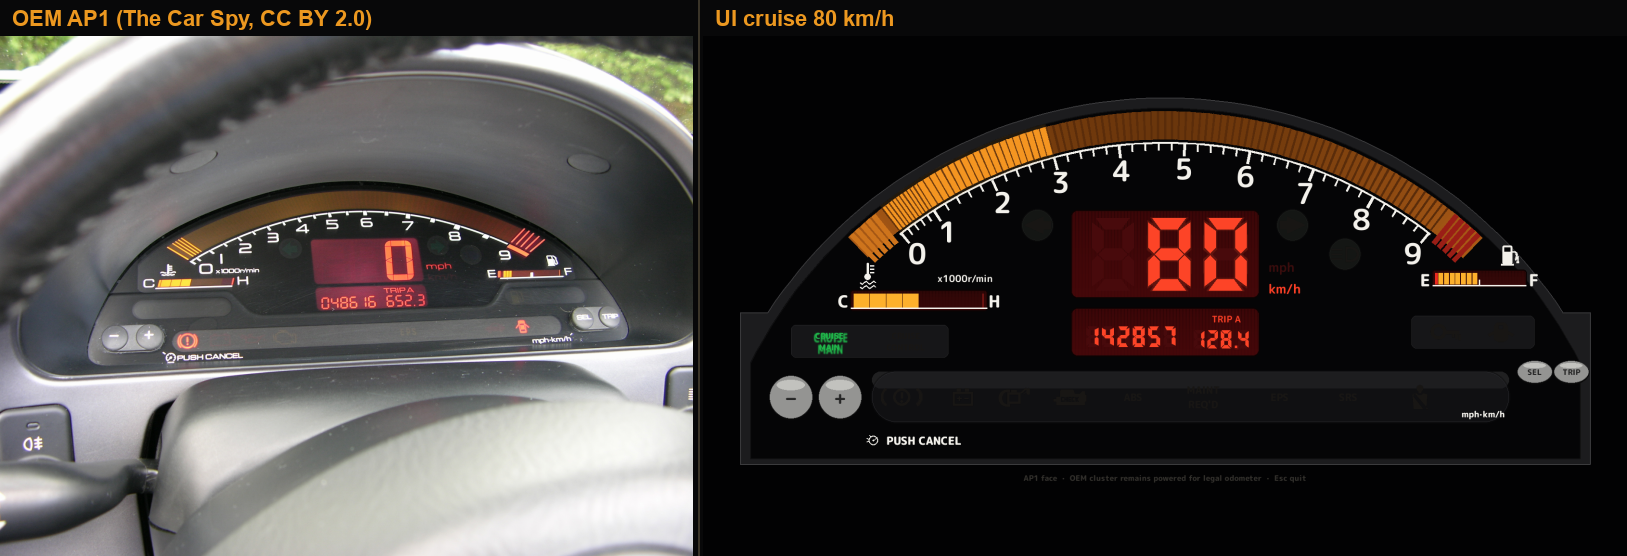
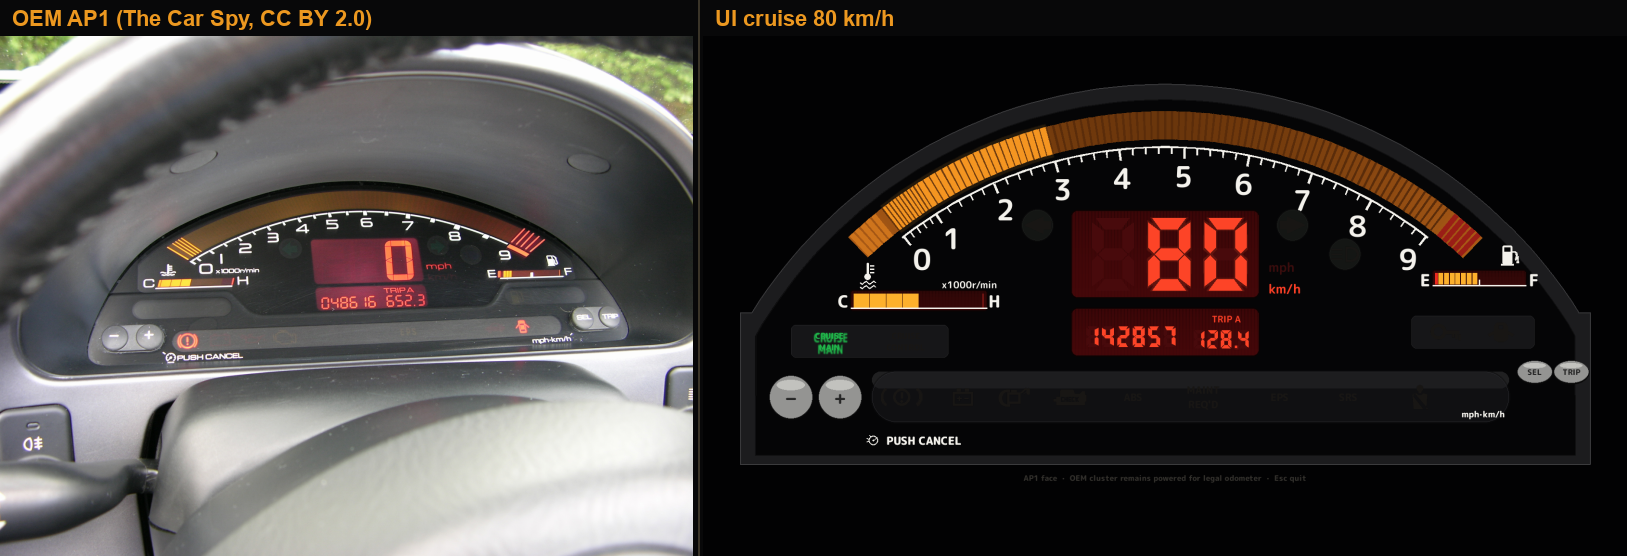
fix(cluster): unstack overlapping hood, band and tick curves
The cowl lip, amber band, hatch tails and tick baseline sat on almost the
same radius, so they painted as one stroke. Give each ring its own gap
from the OEM stack and lock that in tests.

diff --git a/apps/harness/lib/geometry.test.ts b/apps/harness/lib/geometry.test.ts
@@ -73,17 +73,29 @@ describe("face geometry (shared faceSpec.json lock)", () => {
     near(pctY(tachNumXY(0).y), 0.43, 0.03);
   });
 
+  it("keeps hood, band, hatch, ticks and numerals on separate radii", () => {
+    const t = FACE.spec.tach;
+    assert.ok(FACE.spec.crown_r - t.r_out >= 0.012);
+    assert.ok(t.r_in - t.r_line >= t.line_gap);
+    assert.ok(t.hatch_inner_over <= t.line_gap * 0.25);
+    const tickTip = t.r_line - t.tick_major[1];
+    const numeralOuter = t.r_num + t.num_size / 2;
+    assert.ok(tickTip - numeralOuter > 0.002);
+  });
+
   it("draws the hood crown concentric with the band, clearing its apex, springing at ~5 % W", () => {
     const pts = visorLipPoly().split(" ").map((p) => p.split(",").map(Number));
     assert.ok(pts.length > 20);
     const mid = pts[Math.floor(pts.length / 2)];
     const apex = arcPx(FACE, FACE.spec.tach.r_out, -90);
     assert.ok(mid[1] < apex.y);
-    assert.ok(apex.y - mid[1] < FACE.module.w * 0.012);
+    const well = apex.y - mid[1];
+    assert.ok(well > FACE.module.w * 0.010);
+    assert.ok(well < FACE.module.w * 0.020);
     const c = arcPx(FACE, 0, -90);
     const radii = pts.map(([x, y]) => Math.hypot(x - c.x, y - c.y) / FACE.module.w);
     near(Math.max(...radii) - Math.min(...radii), 0, 0.002);
-    near(Math.min(...radii), FACE.spec.tach.r_out + 0.004, 0.002);
+    near(Math.min(...radii), FACE.spec.tach.r_out + 0.014, 0.002);
     const half = crownSpringX(FACE.spec, FACE.spec.crown_r, FACE.spec.spring_y);
     near(0.5 - half, 0.05, 0.02);
     assert.match(hoodPath(), /^M .* Z$/);

diff --git a/src/face_spec.py b/src/face_spec.py
@@ -73,13 +73,13 @@ class ArcSpec:
     hatch_deg: float = 5.5      # band overrun past 0 and 9 (5 stripes each)
     hatch_n: int = 5
     hatch_w_deg: float = 0.62
-    hatch_inner_over: float = 0.010  # W — stripes reach past the band's inner edge
+    hatch_inner_over: float = 0.0    # W — hatches stay inside the band (do not cross the ticks)
     minors_per: int = 4
     line_w: float = 0.0020      # W — white baseline arc under the band
-    line_gap: float = 0.003     # W — dark gap between band and baseline
-    tick_major: tuple[float, float] = (0.0028, 0.014)  # (w, len) in W
-    tick_minor: tuple[float, float] = (0.0017, 0.008)
-    num_inset: float = 0.030    # W — baseline → numeral centre
+    line_gap: float = 0.008     # W — dark gap so the baseline is not painted on the band
+    tick_major: tuple[float, float] = (0.0024, 0.012)  # (w, len) in W
+    tick_minor: tuple[float, float] = (0.0014, 0.007)
+    num_inset: float = 0.034    # W — baseline → numeral centre (clears tick tips)
     num_size: float = 0.034     # W — font size (M PLUS Rounded 1c Bold)
 
     @property
@@ -222,11 +222,11 @@ class FaceSpec:
     extras: dict[str, float] = field(default_factory=dict)
 
 
-# The hood crown is CONCENTRIC with the tach: the OEM band hugs the cowl with
-# a constant dark gap all the way round, so the crown is the band's outer
-# circle plus a hairline. The lip is the visible cowl rim outside that.
-CROWN_GAP = 0.004   # W - dark gap between band outer edge and cowl
-CROWN_LIP = 0.012   # W
+# The hood crown is CONCENTRIC with the tach. OEM leaves a visible dark
+# well between the cowl lip and the band — a hairline gap makes the lip,
+# the band and the tick baseline paint as one stroke.
+CROWN_GAP = 0.014   # W — dark well between band outer edge and cowl
+CROWN_LIP = 0.018   # W
 
 _AP1_TACH = ArcSpec()
 AP1 = FaceSpec(

diff --git a/tests/test_gauge_ui.py b/tests/test_gauge_ui.py
@@ -228,18 +228,30 @@ class FaceGeomTests(unittest.TestCase):
         self.assertAlmostEqual(self._pct(*tach_num_xy(5 / 9))[1], 0.19, delta=0.03)
         self.assertAlmostEqual(self._pct(*tach_num_xy(0.0))[1], 0.43, delta=0.03)
 
+    def test_arc_stack_radii_do_not_overlap(self) -> None:
+        """Hood lip, band, hatch, baseline and numerals each own a radius."""
+        t = AP1.tach
+        self.assertGreaterEqual(AP1.crown_r - t.r_out, 0.012)
+        self.assertGreaterEqual(t.r_in - t.r_line, t.line_gap)
+        self.assertLessEqual(t.hatch_inner_over, t.line_gap * 0.25)
+        tick_tip = t.r_line - t.tick_major[1]
+        numeral_outer = t.r_num + t.num_size / 2.0
+        self.assertGreater(tick_tip - numeral_outer, 0.002)
+
     def test_visor_lip_clears_the_band(self) -> None:
         _, peak_y = FACE.arc_px(AP1.tach.r_out, -90.0)
         pts = visor_lip_points()
         self.assertGreater(len(pts), 20)
         mid = pts[len(pts) // 2]
         self.assertLess(mid[1], peak_y)
-        self.assertLess(peak_y - mid[1], FACE.module[2] * 0.012)
+        well = peak_y - mid[1]
+        self.assertGreater(well, FACE.module[2] * 0.010)
+        self.assertLess(well, FACE.module[2] * 0.020)
         # crown is concentric with the band: constant gap all the way round
         c = FACE.arc_px(0.0, -90.0)
         radii = [math.hypot(x - c[0], y - c[1]) for x, y in pts]
         self.assertLess(max(radii) - min(radii), 1.5)
-        self.assertAlmostEqual(min(radii) / FACE.module[2], AP1.tach.r_out + 0.004, delta=0.002)
+        self.assertAlmostEqual(min(radii) / FACE.module[2], AP1.tach.r_out + 0.014, delta=0.002)
         # springs meet the bezel at ~5 % / 95 % W
         self.assertAlmostEqual(self._pct(*pts[0])[0], 0.05, delta=0.02)
         self.assertAlmostEqual(self._pct(*pts[-1])[0], 0.95, delta=0.02)

diff --git a/docs/iterations/0016-ap1-position-arc-stack.md b/docs/iterations/0016-ap1-position-arc-stack.md
@@ -1,0 +1,33 @@
+# Iteration 0016 - position: unstack the hood / band / tick radii
+
+## Capture
+
+- OEM: bench AP1 (`refs/oem/bench/oem_ap1_bench.png`) + Car Spy lit
+- UI: `docs/assets/compare/compare_ap1_lit_cruise.png`, harness stills
+
+## Diff (position only)
+
+| Stack (outside → in) | OEM | Before | After |
+| --- | --- | --- | --- |
+| Cowl lip → band | visible dark well | `CROWN_GAP` 0.4 % W (lip painted on the band) | **1.4 % W** well, lip **1.8 % W** |
+| Hatch → baseline | hatches stay in the band | `hatch_inner_over` 1.0 % W crossed the white line | **0** — hatches clip at `r_in` |
+| Band → ticks | dark gap, then ticks | `line_gap` 0.3 % W (baseline sat on the band) | **0.8 % W** |
+| Ticks → numerals | tick tips clear the digits | major 1.4 % W reached the glyph | major **1.2 % W**, `num_inset` **3.4 % W** |
+
+## Fix plan
+
+Position track. Edit `src/face_spec.py` only (plus lock export + tests). No colour, font, motion or icon work.
+
+## Acceptance
+
+`test_arc_stack_radii_do_not_overlap` holds in pygame and the harness: crown, band, hatch, baseline and numerals each own a radius.
+
+## Verify
+
+pytest + harness geometry tests green. Same-room: the grey lip, amber band and white ticks read as three concentric curves, not one stroke.
+
+## Hand-off
+
+PR title: `fix(cluster): unstack overlapping hood, band and tick curves`
+
+Not in scope: module aspect / circle refit from the bench photo (size + position follow-up), CAD mesh rebuild, glow.

diff --git a/docs/iterations/0015-arc-lock-overhaul.md b/docs/iterations/0015-arc-lock-overhaul.md
@@ -27,7 +27,7 @@ After it, the six-track loop resumes on top of `face_spec.py`.
 | Tach curve | circular arc, centre ≈ 130 % H below top, r ≈ 54 % W | quadratic bezier `y = 28 u²` | `ArcSpec` circle; 0/9 ticks at (19 %, 36 %) / (81 %, 36 %), apex 2.4 % |
 | Tach readout | amber **bar graph** cells + red hatch past 9 | white chevron needle on a printed band | 100 rpm cells, 0.22° gaps, hatch lights over 9; no needle |
 | 0 → 1 division | squeezed (~60 %) | uniform | `first_div = 0.6` |
-| Hood crown | concentric with the band, constant gap | parabola with rectangular side notches | circle concentric with the tach, r = r_out + 0.4 % W, 1.2 % lip, springs at 58 % H |
+| Hood crown | concentric with the band, constant gap | parabola with rectangular side notches | circle concentric with the tach, r = r_out + 1.4 % W well, 1.8 % lip, springs at 58 % H |
 | Digits | mitred 45° 7-seg, hairline gaps, chamfered corners | rounded strokes | `lcd_digits.py` / `SevenSeg.tsx` rewritten, ghost `#4a0c0e` |
 | Numerals | rounded gothic, inside the well | Barlow Condensed italic | M PLUS Rounded 1c Bold, on `r_num` along the inward normal |
 | TEMP / FUEL | 8 / 16 block bars with icon + letters | 6 thin ticks | `SegBar`, idle knee at 3–4 blocks (`temp_segments_lit`) |

diff --git a/refs/flat/DIMENSIONS.md b/refs/flat/DIMENSIONS.md
@@ -38,7 +38,7 @@ Everything below is derived from that one circle.
 | --- | --- |
 | Module aspect | **2.35:1** |
 | Bottom | flat |
-| Hood crown | circle **concentric with the tach** `(50 %, 130 % H)`, r = band `r_out` + **0.4 % W** gap = **54.7 % W**; cowl lip **1.2 % W** outside it |
+| Hood crown | circle **concentric with the tach** `(50 %, 130 % H)`, r = band `r_out` + **1.4 % W** well = **55.7 % W**; cowl lip **1.8 % W** outside it |
 | Crown top | y ≈ **0.5 %** (constant gap over the band apex; the lip rises just past the module top) |
 | Spring line | y = **58 %** - crown meets the flat lower bezel; springs land at x ≈ 5 % / 95 % |
 | Lower bezel | full width below the spring; strip and buttons live here |
